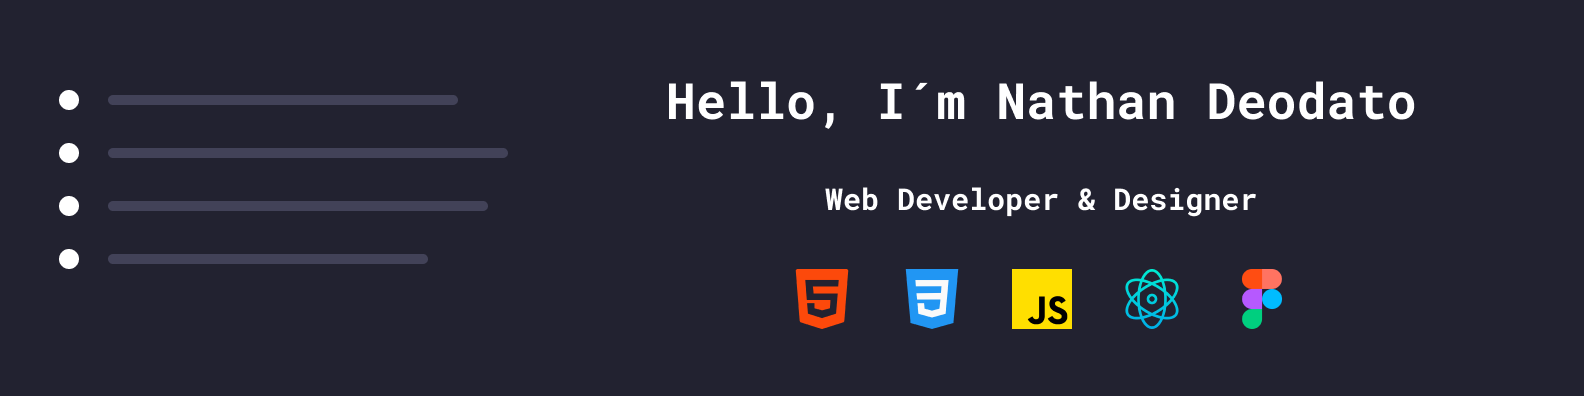
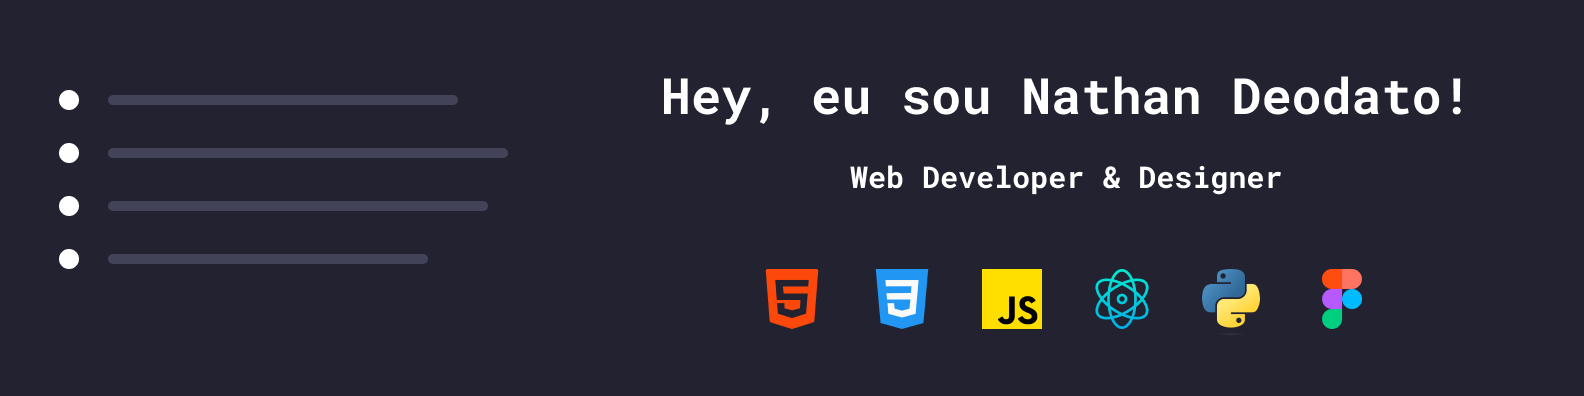
Atualizando organização do README, além de adicionar um novo coover ao meu amigo.

Changed region(s): [[0.464, 0.6667, 0.8662, 0.8485], [0.4021, 0.1818, 0.928, 0.303], [0.4949, 0.4242, 0.8043, 0.5455]]

diff --git a/README.md b/README.md
@@ -1,21 +1,17 @@
-# Hey, eu sou Nathan Deodato!
-
-<img src=''/>
+<img src="./Icons/coverNathanCode.png" width="1000px"/>
 
 - 💻 FrontEnd developer
 - 🖌 Designer
-- 💬 Minha filosofia é: Contancia e determinação na execução do que me comprometo.
+- 💬 Minha filosofia é: Constancia e determinação na execução do que me comprometo.
 - 🌐 Mais sobre mim: <a href='https://nathancode.netlify.app'>NathanCode</a>
 
-### Hard skills
-
-<div style='display: flex; justify-content: space-betwen;'>
+<!-- <div style='display: flex; justify-content: space-betwen;'>
     <img src='https://img.shields.io/badge/HTML5-E34F26?style=for-the-badge&logo=html5&logoColor=white' width='80px'/>
     <img src='https://img.shields.io/badge/CSS3-1572B6?style=for-the-badge&logo=css3&logoColor=white' width='70px'/>
     <img src='https://img.shields.io/badge/JavaScript-323330?style=for-the-badge&logo=javascript&logoColor=F7DF1E' width='115px'/>
-    <img src='https://img.shields.io/badge/Python-FFD43B?style=for-the-badge&logo=python&logoColor=blue' width='88px'/>
     <img src='https://img.shields.io/badge/React-20232A?style=for-the-badge&logo=react&logoColor=61DAFB' width='78px'/>
-    <img src='https://img.shields.io/badge/Node%20js-339933?style=for-the-badge&logo=nodedotjs&logoColor=white' width='91px'/>
+    <img src='https://img.shields.io/badge/Python-FFD43B?style=for-the-badge&logo=python&logoColor=blue' width='88px'/>
+    <!-- <img src='https://img.shields.io/badge/Node%20js-339933?style=for-the-badge&logo=nodedotjs&logoColor=white' width='91px'/> -->
 </div>
 
 ### Contact
